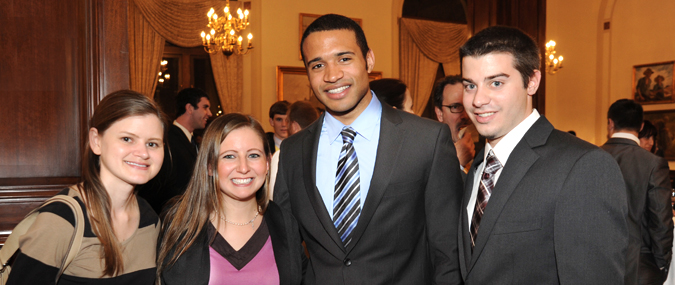
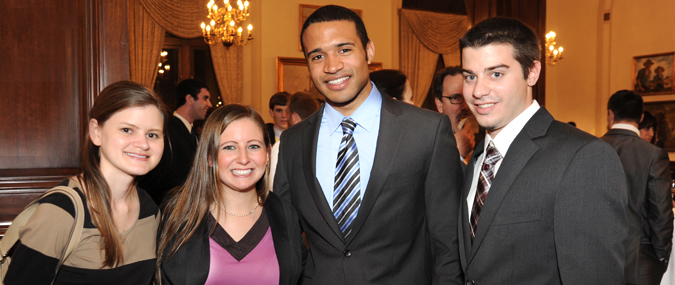
Update homepage images and CSS for slider

diff --git a/css/main.css b/css/main.css
@@ -2461,7 +2461,7 @@ a.nav-toggle:hover, a.nav-toggle:active {
   position: static;
   z-index: 2;
   font-size: 1em;
-  line-height: 1.25;
+  line-height: 1.2;
   text-shadow: none;
   color: #fff;
   background: #111;
@@ -2469,7 +2469,7 @@ a.nav-toggle:hover, a.nav-toggle:active {
   left: 0;
   right: 0;
   bottom: 0;
-  padding: 10px 25% 10px 20px;
+  padding: 9px 25% 10px 20px;
   margin: 0;
   max-width: none;
 }
@@ -2479,7 +2479,7 @@ a.nav-toggle:hover, a.nav-toggle:active {
     left: 0;
     right: 0;
     bottom: 0;
-    padding: 10px 20% 10px 20px;
+    padding: 9px 20% 9px 20px;
     background: #111;
     background: rgba(0, 0, 0, 0.9);
   }

diff --git a/sass/sections/_slider.scss b/sass/sections/_slider.scss
@@ -59,7 +59,7 @@
   position: static;
   z-index: 2;
   font-size: $font-size-main;
-  line-height: 1.25;
+  line-height: 1.2;
   text-shadow: none;
   color: #fff;
   background: #111;
@@ -68,7 +68,7 @@
   right: 0;
   bottom: 0;
   // Paddding pushes from the top of the <li> when position is set to 'static'
-  padding: 10px 25% 10px 20px;
+  padding: 9px 25% 10px 20px;
   margin: 0;
   max-width: none;
   @include breakpoint(bp2) {
@@ -76,7 +76,7 @@
     left: 0;
     right: 0;
     bottom: 0;
-    padding: 10px 20% 10px 20px;
+    padding: 9px 20% 9px 20px;
     background: #111;
     background: rgba(0,0,0, .9); } }
 

diff --git a/index.php b/index.php
@@ -19,8 +19,8 @@ $tpTitle="The Office of Alumni Relations &amp; Development | The John Marshall L
 					  	<p class="caption"><span class="caption-title">Get Involved</span><br>Improve your alma mater and the opportunities of our students.<br><a class="caption-link" href="get-involved/">Learn More &raquo;</a></p>
 					  </li>					  
 					  <li>
-					  	<a href="stay-connected/"><img src="images/hero-1.jpg" alt="Stay Connected at John Marshall"></a>
-					  	<p class="caption"><span class="caption-title">Stay Connected</span><br>Network with friends and other alumni, and discover the John Marshall of today.<br><a class="caption-link" href="stay-connected/">Learn More &raquo;</a></p>
+					  	<a href="stay-connected/"><img src="images/hero-reunion.jpg" alt="Stay Connected at John Marshall"></a>
+					  	<p class="caption"><span class="caption-title">Stay Connected</span><br>Network with friends and other alumni, and discover the JMLS of today.<br><a class="caption-link" href="stay-connected/">Learn More &raquo;</a></p>
 					  </li>					  
 					  <li>
 					  	<a href="support-john-marshall/"><img src="images/hero-class.jpg" alt="Support John Marshall"></a>
@@ -100,7 +100,7 @@ $tpTitle="The Office of Alumni Relations &amp; Development | The John Marshall L
 						<div class="media-box">
 							<div class="media">
 								<a href="initiatives/signature-events.php" class="graphic">
-									<img src="images/project-4.jpg" alt="">
+									<img class="home-thumb" src="images/project-4.jpg" alt="">
 								</a>
 								<div class="media-content">
 									<a class="bold" href="initiatives/signature-events.php">Signature Events Are One Way to Talk About Nothing</a>
@@ -118,7 +118,7 @@ $tpTitle="The Office of Alumni Relations &amp; Development | The John Marshall L
 						<div class="media-box">
 							<div class="media">
 								<a href="initiatives/scholarships.php" class="graphic">
-									<img src="images/project-5.jpg" alt="">
+									<img class="home-thumb" src="images/thumb-scholarship.jpg" alt="">
 								</a>
 								<div class="media-content">
 									<a class="bold" href="initiatives/scholarships.php">Scholarships Section Is What This Is and Such and Such</a>
@@ -142,7 +142,7 @@ $tpTitle="The Office of Alumni Relations &amp; Development | The John Marshall L
 						<div class="media-box">
 							<div class="media">
 								<a href="initiatives/annual-fund.php" class="graphic">
-									<img src="images/project-6.jpg" alt="">
+									<img class="home-thumb" src="images/project-6.jpg" alt="">
 								</a>
 								<div class="media-content">
 									<a class="bold" href="initiatives/annual-fund.php">The Annual Fund is Beyond Amazing Times Five Trillion</a>
